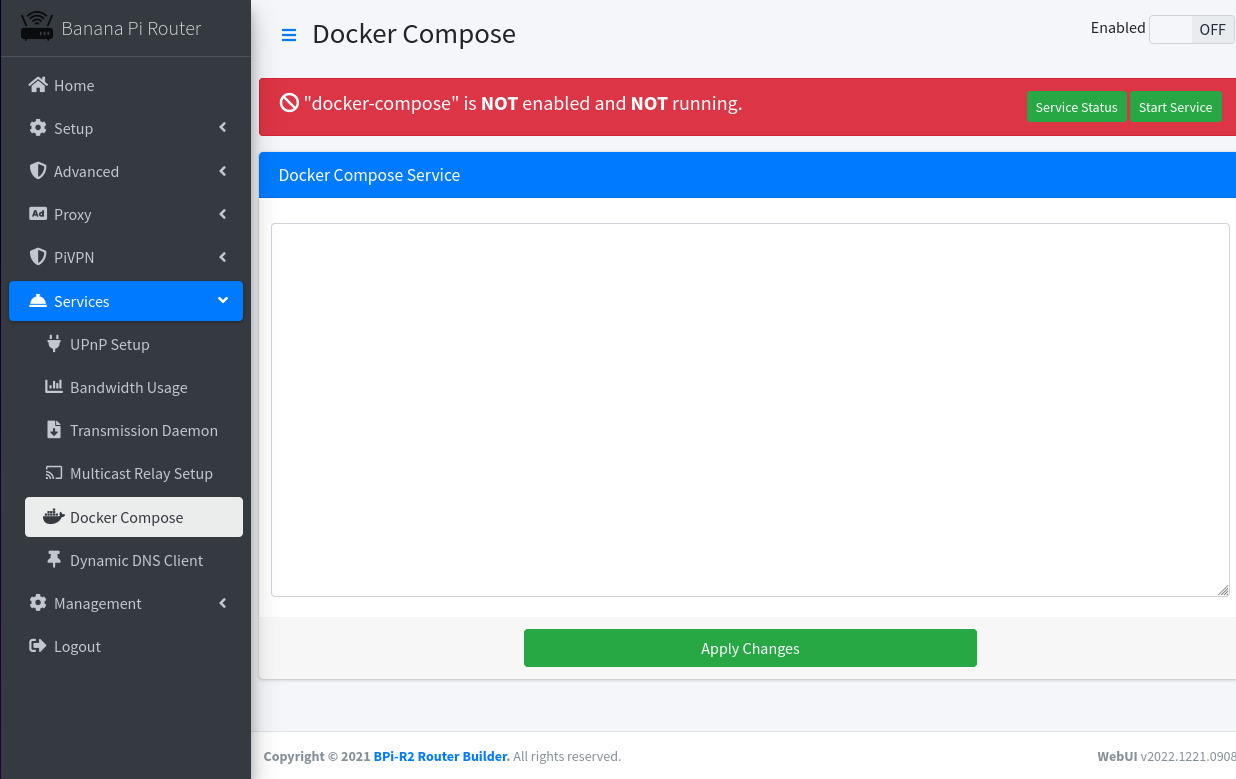
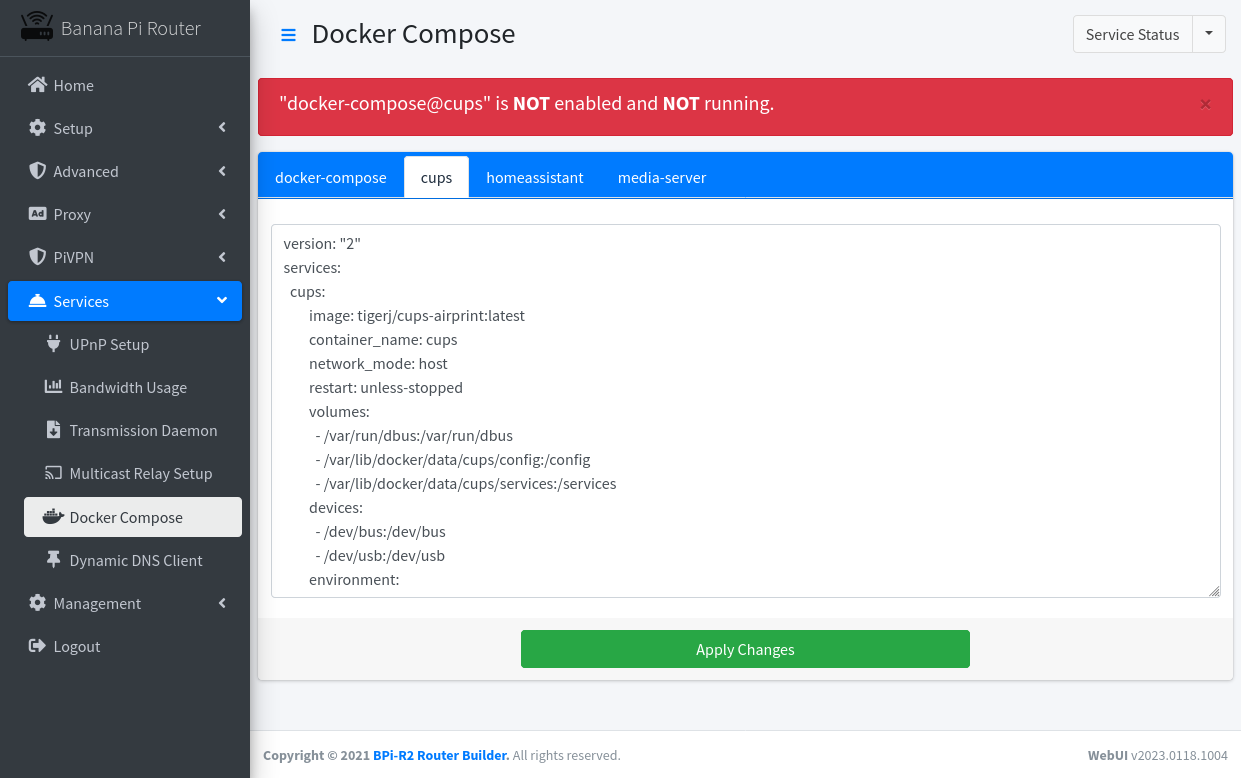
Updated WebUI Services / Docker Compose

diff --git a/router/js/site-services.js b/router/js/site-services.js
@@ -194,7 +194,15 @@ function Init_Compose()
 {
 	__Services_Init('docker-compose');
 	$("#compose_submit").click(function() {
-		WebUI_Post("/services/compose", __postdata("submit", $("#contents-div").val()));
+		// Assemble the post data for the AJAX call:
+		postdata = {
+			'sid':      SID,
+			'action':   'submit',
+			'contents': $("#contents-div").val(),
+			'file':     $("#file").val(),
+		};
+		//alert(JSON.stringify(postdata, null, 5)); return;
+		WebUI_Post("/services/compose", postdata); 
 	}); 
 }
 

diff --git a/router/includes/services-compose.php b/router/includes/services-compose.php
@@ -30,17 +30,30 @@ if (isset($_POST['action']))
 #################################################################################################
 # Output the Multicast Relay page:
 #################################################################################################
-services_start('docker-compose');
+$URL = explode("?", $_SERVER['REQUEST_URI'])[0];
+$file = isset($_GET['file']) ? $_GET['file'] : 'docker-compose';
+services_start('docker-compose@' . $file);
 echo '
 <div class="card card-primary">
-	<div class="card-header">
-		<h3 class="card-title">Docker Compose Service</h3>
+	<div class="card-header p-0 pt-1">
+		<ul class="nav nav-tabs" id="custom-tabs-two-tab" role="tablist">';
+foreach (array_unique(array_merge(array('/etc/docker/compose.d/docker-compose.yaml'), glob("/etc/docker/compose.d/*"))) as $nfile)
+{
+	$tfile = str_replace('.yaml', '', basename($nfile));
+	echo '
+			<li class="nav-item">
+				<a class="ifaces nav-link', $tfile == $file ? ' active' : '', '" href="', $URL, $tfile == "docker-compose" ? '' : '?file=' . $tfile, '">', basename($tfile), '</a>
+			</li>';
+}
+echo '
+		</ul>
 	</div>
 	<div class="card-body">
 		<div class="row" style="margin-top: 5px">
 			<textarea id="contents-div" class="form-control" rows="15" style="overflow-y: scroll;">',
-				str_replace("    ", "\t", @file_get_contents("/etc/docker-compose.yaml")),
+				str_replace("    ", "\t", @file_get_contents("/etc/docker/compose.d/" . $file . ".yaml")),
 			'</textarea>
+			<input id="file" type="hidden" value="', $file, '" />
 		</div>
 	</div>
 	<div class="card-footer">

diff --git a/router/includes/subs/site.php b/router/includes/subs/site.php
@@ -38,7 +38,7 @@ $sidebar_menu = array(
 		'usage'     => menu_link('/services/bandwidth', 'Bandwidth Usage', 'fas fa-chart-bar', file_exists("/lib/systemd/system/vnstat.service")),
 		'trans'     => menu_link('/services/transmission', 'Transmission Daemon', 'fas fa-file-download', file_exists("/lib/systemd/system/transmission-daemon.service")),
 		'multicast' => menu_link('/services/multicast', 'Multicast Relay Setup', 'fab fa-chromecast', file_exists("/lib/systemd/system/multicast-relay.service")),
-		'compose'   => menu_link('/services/compose', 'Docker Compose', 'fab fa-docker', file_exists("/lib/systemd/system/docker-compose.service")),
+		'compose'   => menu_link('/services/compose', 'Docker Compose', 'fab fa-docker', file_exists("/lib/systemd/system/docker-compose@.service")),
 		'ddclient'  => menu_link('/services/ddclient', 'Dynamic DNS Client', 'fas fa-thumbtack', file_exists("/lib/systemd/system/ddclient.service")),
 	)),
 	'manage'  => array('Management', 'fas fa-cog', array(
